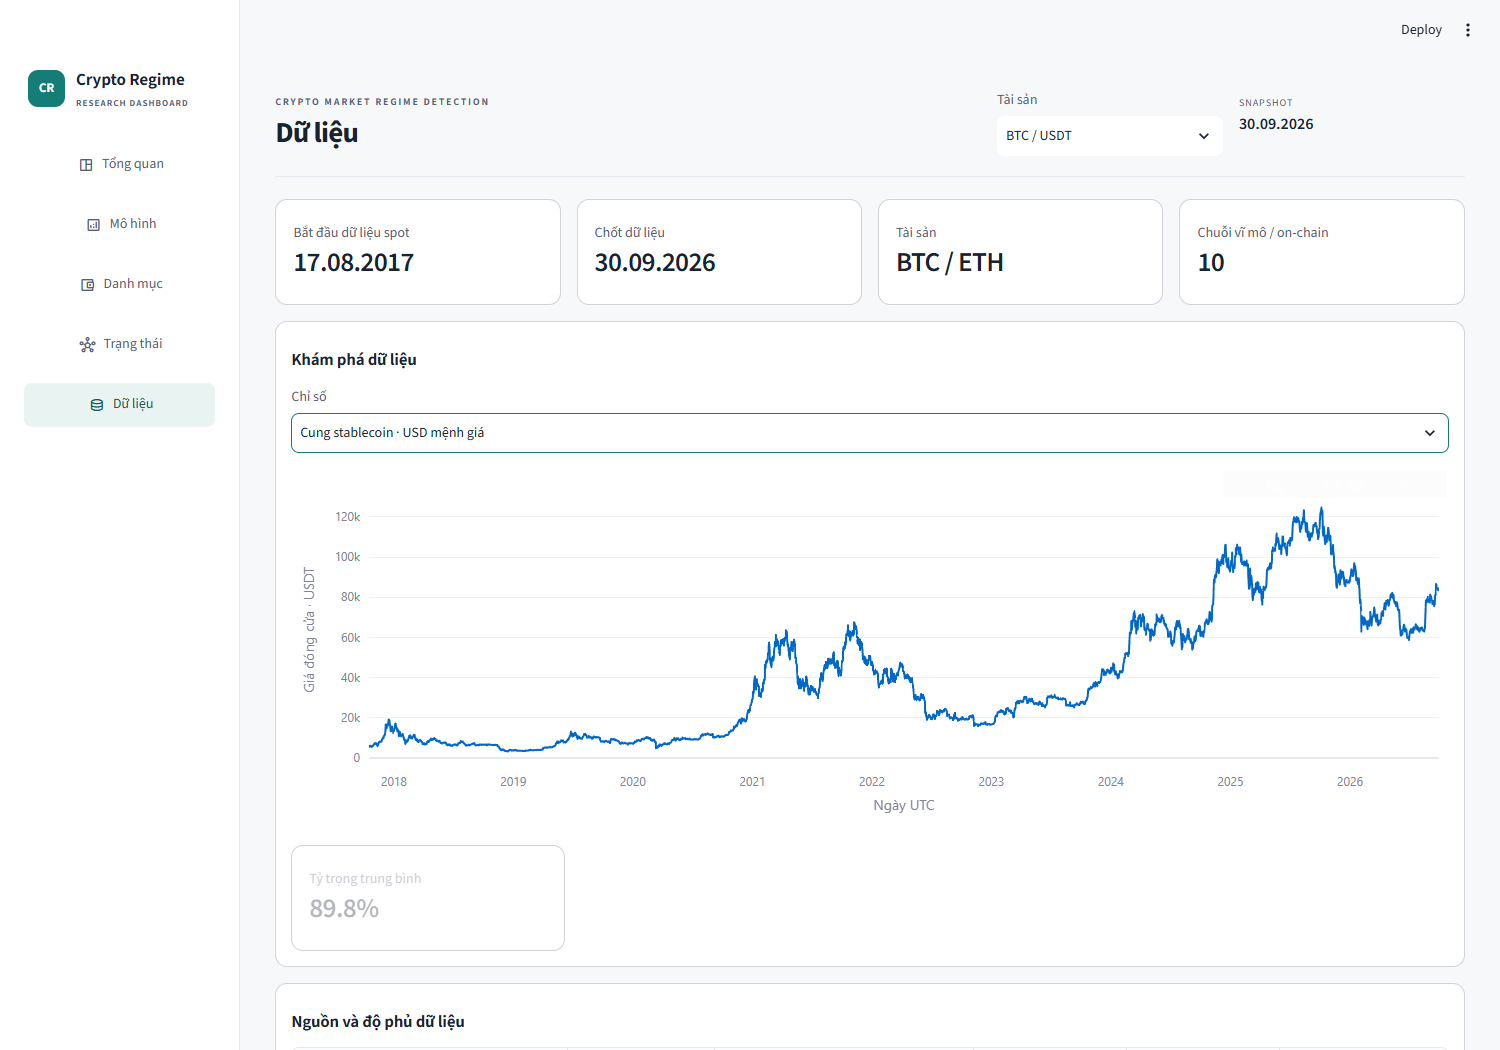
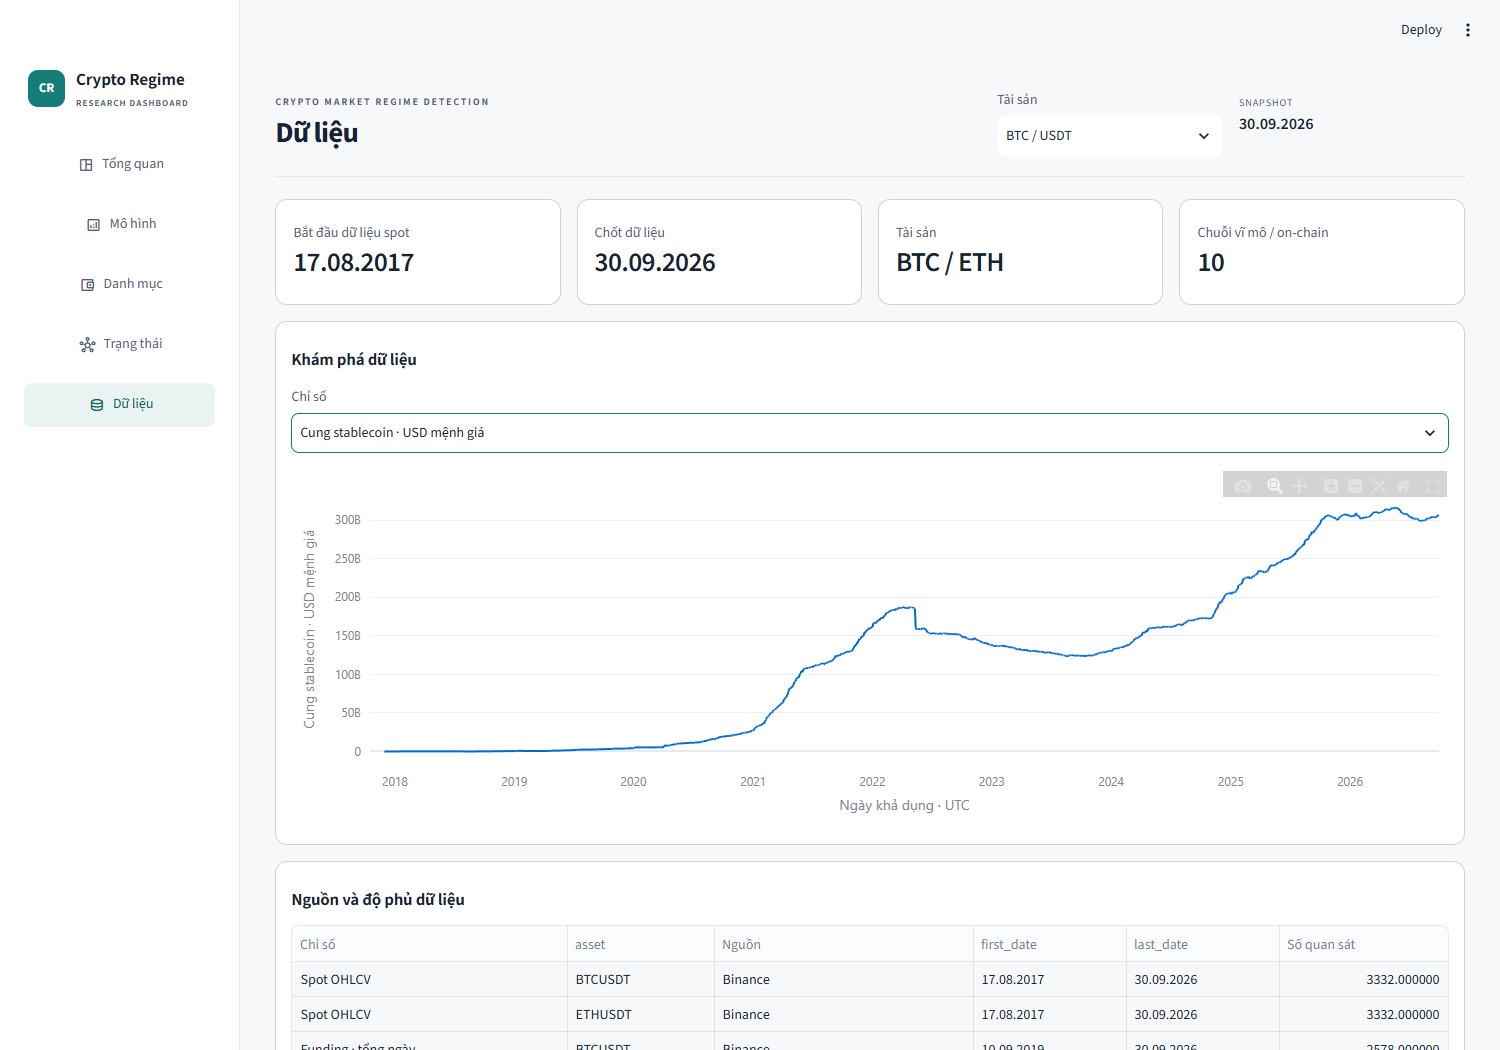
docs: verify compact results from a clean clone and refresh previews

diff --git a/docs/progress.md b/docs/progress.md
@@ -1,6 +1,6 @@
 ## Hợp nhất kết quả và dashboard · 19/10/2026
 
-316 artifact được bảo toàn từng byte trong gói content-addressed, 224 nội dung duy nhất (loại 92 bản sao). Kết quả công bố gồm 7 bảng CSV + research.zip: 10,82 → 5,49 MB. Dashboard 5 trang thống nhất; 24 cấu hình/tài sản, biểu đồ return mặc định 19 mô hình, joint-core 2; Data gom mọi nhóm nguồn và phương pháp. Không đổi mẫu/RMSE/R hay fit lại. Kiểm tra: 15 tests, 62 tổ hợp AppTest, Edge desktop/mobile, hash khoa học và summary khớp. Chi tiết QA: docs/dashboard_qa.json, docs/results_packaging_qa.json.
+316 artifact được bảo toàn từng byte trong gói content-addressed, 224 nội dung duy nhất (loại 92 bản sao). Kết quả công bố gồm 7 bảng CSV + research.zip: 10,82 → 5,49 MB. Dashboard 5 trang thống nhất; 24 cấu hình/tài sản, biểu đồ return mặc định 19 mô hình, joint-core 2; Data gom mọi nhóm nguồn và phương pháp. Không đổi mẫu/RMSE/R hay fit lại. Kiểm tra: 15 tests, 62 tổ hợp AppTest, Edge desktop/mobile, hash khoa học và summary khớp. Clone sạch không raw/cache chạy verify/extend/15 tests và mọi trang BTC/ETH; working tree giữ sạch. Chi tiết QA: docs/dashboard_qa.json, docs/results_packaging_qa.json.
 
 > Cập nhật 19/10/2026: đã mở rộng ngoài Binance-only với 30 cấu hình bổ sung. Xem [task mới](../tasks/todo.md), [phương pháp mở rộng](EXTERNAL_METHODS.md) và [QA](extension_qa.json). Nội dung 16/10 bên dưới được giữ như lịch sử bản gốc; bài/PDF cũ chưa cập nhật.
 

diff --git a/tasks/todo.md b/tasks/todo.md
@@ -17,4 +17,6 @@ E08 đạt: clone sạch cài 63 pin, 14 tests, tải lại nguồn/khớp hash;
 - [x] D01 — Gói kết quả và bảng chung, kiểm tra nguyên vẹn.
 - [x] D02 — Dashboard thống nhất và menu trái.
 - [x] D03 — Data và phương pháp chung, bố cục theo reference.
-- [ ] D04 — QA, clone, tài liệu và bàn giao.
+- [x] D04 — QA, clone, tài liệu và bàn giao.
+
+D04 đạt: clone sạch không cache/raw, 15 tests; verify/extend không làm thay đổi working tree; UI BTC/ETH và download control khi chưa có ngoại sinh hoạt động. Edge 320–1440 px; return chart 19, joint-core 2. Không fit lại hoặc đổi mẫu/RMSE/R.
